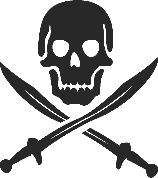
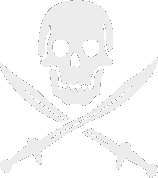
Fri 04 Sep 2020 00:10:23 GMT

diff --git a/css/.themer/gruvbox-dark/page.css b/css/.themer/gruvbox-dark/page.css
@@ -1,14 +1,13 @@
 main {
 	margin: 100px;
-	font-size: 25px;
 }
 html,
 body {
-	background-color: #222222;
-	color: #ececec;
+	background-color: #282828;
+	color: #fbf1c7;
 	min-height: 100%;
-	min-width: 400px;
-	font-family: "Garamond", "Times New Roman", serif;
+	min-width: 1000px;
+	font-family: "Garamond", serif;
 	font-size: 25px;
 }
 html {
@@ -16,27 +15,27 @@ html {
 }
 body {
 	counter-reset: heading;
-	line-height: 1.85;
-	margin-left: 100px;
-	margin-right: 100px;
+	line-height: 1.25;
+	margin-left: auto;
+	margin-right: auto;
 	padding: 20px 20px;
 }
 
 hr {
 	border: 0;
 	height: 5px;
-	background-image: linear-gradient(to right, rgba(34, 34, 34, 0), rgba(51, 51, 51, 0.75), rgba(34, 34, 34, 0));
+	background-image: linear-gradient(to right, rgba(40, 40, 40, 0), rgba(72, 98, 73, 0.75), rgba(40, 40, 40, 0));
 }
 
 code,
 pre {
-	font-family: "CMU Typewriter Text", Monaco, "Courier New", monospace;
+	font-family: "CMU Typewriter Text", monospace;
 }
 code {
 	padding: .1em;
 	font-size: 1rem;
-	color: #989898;
-	background-color: #333333;
+	color: #b1c798;
+	background-color: #486249;
 	border-radius: 5px;
 }
 pre {
@@ -50,7 +49,7 @@ pre {
 	white-space: pre-wrap;
 	word-break: break-all;
 	word-wrap: break-word;
-	background-color: #333333;
+	background-color: #486249;
 }
 pre code {
 	padding: 0;
@@ -67,27 +66,22 @@ pre code {
 }
 a,
 a:visited {
-	color: #444444;
+	color: #689d6a;
 }
 a:hover,
 a:focus,
 a:active {
-	color: #c886db;
+	color: #b16286;
 }
 .retro-no-decoration {
 	text-decoration: none;
 }
 
 /* On screens that are less than 700px wide, make the sidebar into a topbar */
-@media screen and (max-width: 700px) {
-	#TOC { top: 0; width: 100%; height: auto; left: 0;}
-	#TOC ul li a {float: left;}
-	body {min-width: 100%; margin-left: 0;}
+@media screen and (max-width: 1000px) {
+	body {width: 95%; margin: 0; font-size: 20px;}
+	html {width: 95%; margin: 0;}
 }
-//On screens that are less than 400px, display the bar vertically, instead of horizontally
-//@media screen and (max-width: 400px) {
-//	#TOC li a { text-align: center; float: none; }
-//}
 
 p, .retro-p { font-size: 1rem; margin-bottom: 1.3rem; }
 h1, .retro-h1, h2, .retro-h2, h3, .retro-h3, h4, .retro-h4 {
@@ -106,15 +100,15 @@ h1:before {
 	content: counter(heading)". ";
 	counter-increment: heading;
 }
-h2, .retro-h2 { font-size: 1.75rem; font-weight: bold; }
+h2, .retro-h2 { font-size: 1.5rem; font-weight: bold; }
 h2:before {
 	content: counter(heading)"." counter(subheading)". ";
 	counter-increment: subheading;
 }
-h3, .retro-h3 { font-size: 1.5rem; font-weight: bold; font-style: italic; }
-h4, .retro-h4 { font-size: 1.3rem; font-style: italic; }
-h5, .retro-h5 { font-size: 1.2rem; font-style: italic; }
-h6, .retro-h6 { font-size: 1.1rem; }
+h3, .retro-h3 { font-size: 1.25rem; font-weight: bold; font-style: italic; }
+h4, .retro-h4 { font-size: 1.12rem; font-style: italic; }
+h5, .retro-h5 { font-size: 1.06rem; font-style: italic; }
+h6, .retro-h6 { font-size: 1.03rem; }
 
 small,
 .retro-small {
@@ -125,6 +119,7 @@ small,
 	font-size: 3rem;
 	font-weight: bold;
 	text-align: center;
+	line-height: 1.1;
 }
 .title:before {
 	content: "";
@@ -133,15 +128,18 @@ small,
 	font-size: 2rem;
 	font-weight: bold;
 	text-align: center;
+	line-height: 1.1;
 }
 .author {
 	font-size: 1.5rem;
 	font-style: italic;
 	text-align: center;
+	line-height: 1.5;
 }
 .date {
 	font-size: 1.5rem;
 	text-align: center;
+	line-height: 1.5;
 }
 
 img,
@@ -155,14 +153,22 @@ textarea {
 }
 
 pre {
-	background-color: #e3cc5e;
-	color: #222222;
+	background-color: #ab7c22;
+	color: #fbf1c7;
 }
+
 blockquote {
-	padding: .5rem 1rem;
-	margin: .8rem 0;
-	color: #c4c4c4;
-	border-left: .25rem solid #333333;
+	padding-left:   0.8rem;
+	padding-top:    0.4rem;
+	padding-right:  0.8rem;
+	padding-bottom: 0.8rem;
+	margin: 0.2rem;
+	color: #d3c99f;
+	background-color: #3c3c3c;
+	border: 1px solid #505050;
+	font-family: "Lucida Handwriting", cursive;
+	font-size: 1.02rem;
+	font-weight: bold;
 }
 blockquote p:last-child {
 	margin-bottom: 0;
@@ -185,16 +191,19 @@ img {
 table {
 	margin-bottom: 1rem;
 	width: 100%;
-	border: 1px solid #ececec;
+	border: 1px solid #fbf1c7;
+	border-style: inset;
 	border-collapse: collapse;
+	background-color: #3c3c3c;
+	font-family: "monospace";
 }
 td,
 th {
 	padding: .25rem .5rem;
-	border: 1px solid #ececec;
+	border: 1px solid #fbf1c7;
 }
 tbody tr:nth-child(odd) td,
 tbody tr:nth-child(odd) th {
-	background-color: #333333;
+	background-color: #505050;
 }
 

diff --git a/css/.themer/gruvbox-dark/post.css b/css/.themer/gruvbox-dark/post.css
@@ -4,8 +4,8 @@ main {
 }
 html,
 body {
-	background-color: #222222;
-	color: #ececec;
+	background-color: #282828;
+	color: #fbf1c7;
 	min-height: 100%;
 	min-width: 400px;
 	font-family: "Garamond", "Times New Roman", serif;
@@ -25,7 +25,7 @@ body {
 hr {
 	border: 0;
 	height: 5px;
-	background-image: linear-gradient(to right, rgba(34, 34, 34, 0), rgba(51, 51, 51, 0.75), rgba(34, 34, 34, 0));
+	background-image: linear-gradient(to right, rgba(40, 40, 40, 0), rgba(72, 98, 73, 0.75), rgba(40, 40, 40, 0));
 }
 
 code,
@@ -35,8 +35,8 @@ pre {
 code {
 	padding: .1em;
 	font-size: 1rem;
-	color: #989898;
-	background-color: #333333;
+	color: #b1c798;
+	background-color: #486249;
 	border-radius: 5px;
 }
 pre {
@@ -50,7 +50,7 @@ pre {
 	white-space: pre-wrap;
 	word-break: break-all;
 	word-wrap: break-word;
-	background-color: #333333;
+	background-color: #486249;
 }
 pre code {
 	padding: 0;
@@ -67,12 +67,12 @@ pre code {
 }
 a,
 a:visited {
-	color: #444444;
+	color: #689d6a;
 }
 a:hover,
 a:focus,
 a:active {
-	color: #c886db;
+	color: #b16286;
 }
 .retro-no-decoration {
 	text-decoration: none;
@@ -155,14 +155,14 @@ textarea {
 }
 
 pre {
-	background-color: #e3cc5e;
-	color: #222222;
+	background-color: #d79921;
+	color: #282828;
 }
 blockquote {
 	padding: .5rem 1rem;
 	margin: .8rem 0;
-	color: #c4c4c4;
-	border-left: .25rem solid #333333;
+	color: #d3c99f;
+	border-left: .25rem solid #486249;
 }
 blockquote p:last-child {
 	margin-bottom: 0;
@@ -185,16 +185,16 @@ img {
 table {
 	margin-bottom: 1rem;
 	width: 100%;
-	border: 1px solid #ececec;
+	border: 1px solid #fbf1c7;
 	border-collapse: collapse;
 }
 td,
 th {
 	padding: .25rem .5rem;
-	border: 1px solid #ececec;
+	border: 1px solid #fbf1c7;
 }
 tbody tr:nth-child(odd) td,
 tbody tr:nth-child(odd) th {
-	background-color: #333333;
+	background-color: #486249;
 }
 

diff --git a/css/.themer/gruvbox-dark/toc.css b/css/.themer/gruvbox-dark/toc.css
@@ -4,7 +4,7 @@
 	left: 0;
 	height: auto;
 	width: 250px;
-	background-color: #2a2a2a;
+	background-color: #384538;
 	font-family: sans-serif;
 	font-size: 0.9rem;
 	font-weight: bold;
@@ -21,23 +21,23 @@
 #TOC ul { text-align: right; }
 #TOC li a {
 	display: inline-block;
-	color: #989898;
+	color: #b1c798;
 	padding: 8px;
 	text-decoration: none;
 }
-#TOC li a:hover { color: #333333; }
-#TOC li a:active { background-color: #585858; }
+#TOC li a:hover { color: #486249; }
+#TOC li a:active { background-color: #79a775; }
 #TOC ul li:hover ul {display: block;}
 #TOC ul li ul {
 	position: absolute;
 	margin-top: -44px;
-	background: #262626;
+	background: #2f362f;
 	left: 250px;
 	display: none;
 	max-height: 50%;
 	overflow: auto;
 }
-#TOC ul li ul li { background: #262626; display: block; }
+#TOC ul li ul li { background: #2f362f; display: block; }
 #TOC ul li ul li a {
 	font-size: 0.9rem;
 	font-weight: normal;

diff --git a/css/.themer/gruvbox-dark/hornav.css b/css/.themer/gruvbox-dark/hornav.css
@@ -7,16 +7,16 @@
 	font-size: 1.0rem;
   padding: 0;
   overflow: hidden;
-  background-color: #363636;
+  background-color: #3c3c3c;
 }
 #HORNAV li { float: left; }
 #HORNAV li a {
   display: block;
-  color: #ececec;
+  color: #fbf1c7;
   text-align: center;
   padding: 14px 16px;
   text-decoration: none;
 }
-#HORNAV li a:hover  { background-color: #333333; }
-#home   { background-color: #333333; }
-#select { background-color: #4a4a4a; }
+#HORNAV li a:hover  { background-color: #486249; }
+#home   { background-color: #486249; }
+#select { background-color: #505050; }
